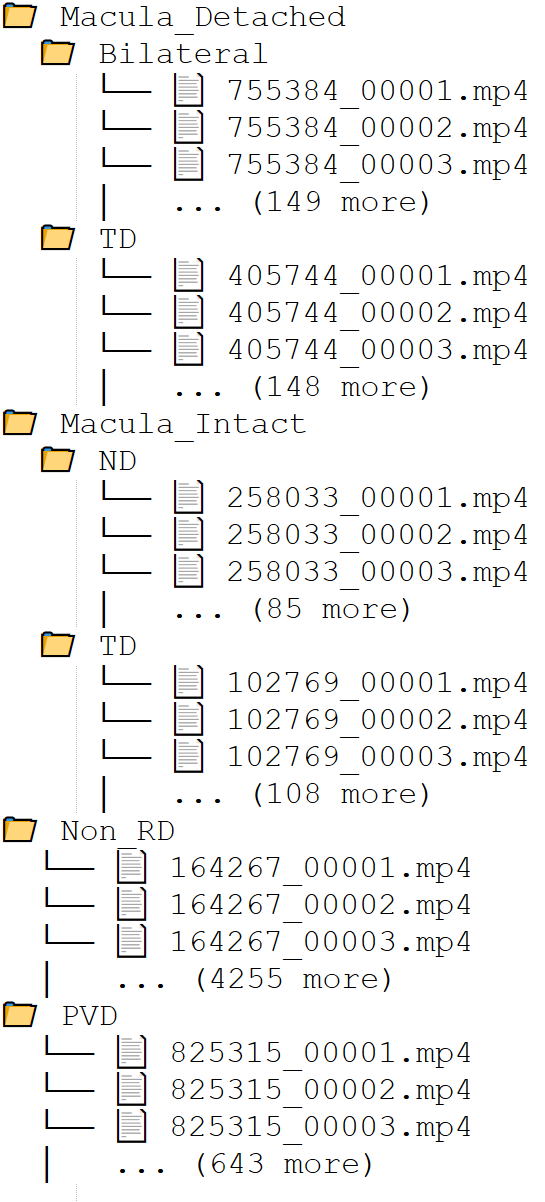
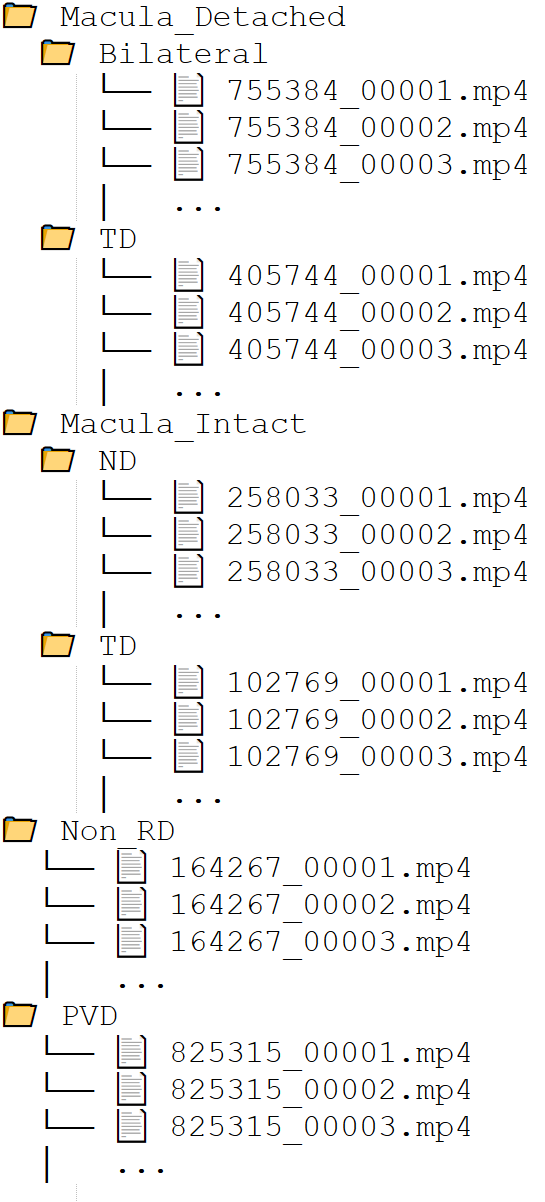
updated counts info

diff --git a/docs/index.html b/docs/index.html
@@ -84,7 +84,7 @@
          <p>
             Ocular ultrasonography is a fast, accessible, and non-invasive imaging tool widely utilized to assess the posterior segment of the eye, especially in the presence of media opacities like cataracts or vitreous hemorrhage.
             It plays a pivotal role in diagnosing and guiding the treatment of various retinal conditions, including retinal and macular detachment. To enable further exploration and development of computer vision techniques in this critical domain,
-            we introduce <strong>E</strong>ye <strong>R</strong>etinal <strong>DE</strong>tachment Ultra<strong>S</strong>ound, <em>ERDES</em>, a comprehensive video dataset of ocular ultrasound scans. ERDES includes 5406 labeled ultrasound video clips,
+            we introduce <strong>E</strong>ye <strong>R</strong>etinal <strong>DE</strong>tachment Ultra<strong>S</strong>ound, <em>ERDES</em>, a comprehensive video dataset of ocular ultrasound scans. ERDES includes 5381 labeled ultrasound video clips,
             each annotated by human experts for the presence of retinal detachments (macula intact vs. detached), providing a rich resource for robust analysis of detachment patterns and classification tasks.
          </p>
          <video class="center" width="480" height="480" autoplay loop muted>
@@ -102,7 +102,7 @@
 		 <br>
          <h2 id="dataset">Dataset</h2>
          <p><img class="center" loading="lazy" width="640" src="media/labeling_rd.png"></p>
-         <p><b>Ocular Videos:</b> The ERDES dataset comprises 5406 ocular B-scan ultrasound videos, each providing dynamic cross-sectional views of the eye's posterior segment. These videos were acquired during routine clinical care at University of Arizona between June 2010 and March 2022. 
+         <p><b>Ocular Videos:</b> The ERDES dataset comprises 5381 ocular B-scan ultrasound videos, each providing dynamic cross-sectional views of the eye's posterior segment. These videos were acquired during routine clinical care at University of Arizona between June 2010 and March 2022. 
 		  To ensure patient privacy and data standardization, all videos were meticulously processed to remove any patient identifiers.
   		  Capturing both normal and pathological findings, the dataset covers a wide range of imaging scenarios, thereby offering a comprehensive resource that reflects clinical variability and supports robust analysis of retinal detachments.
          </p>
